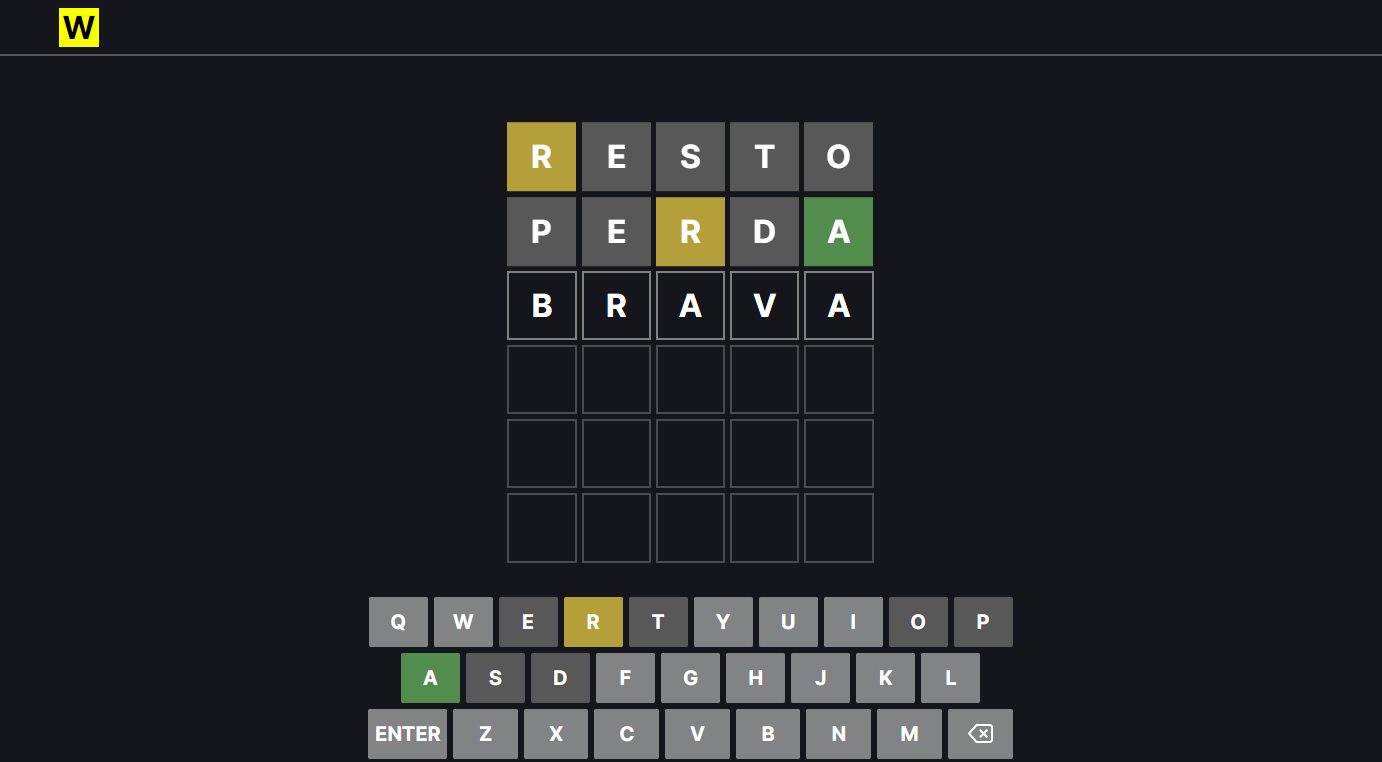
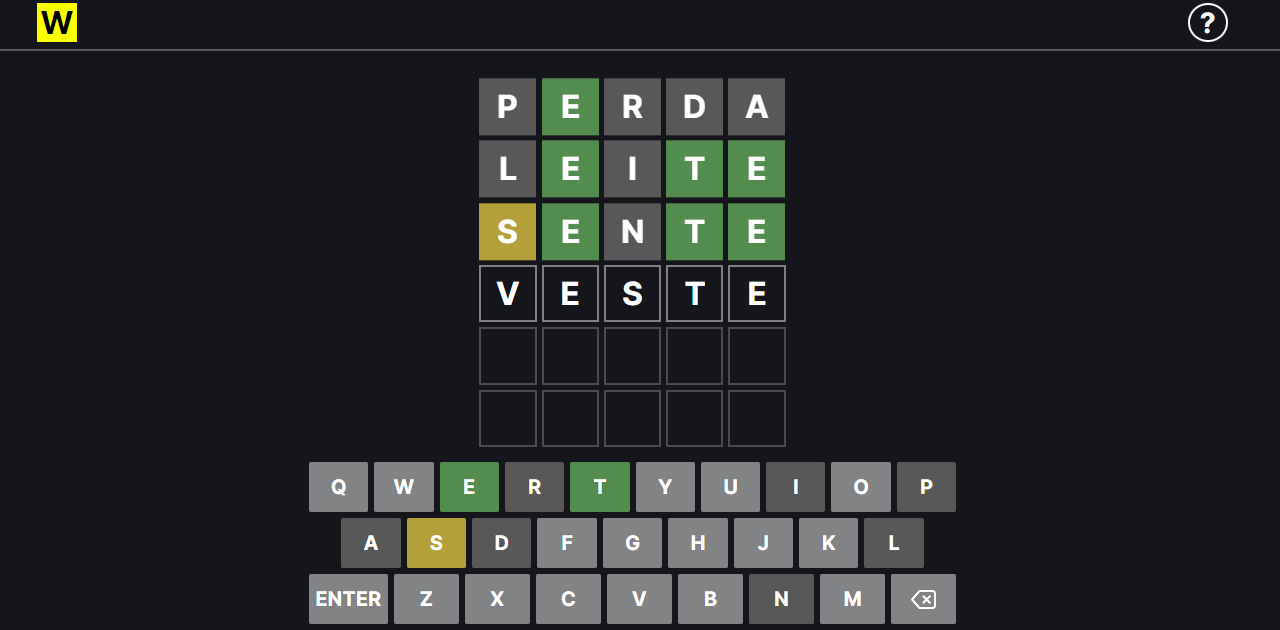
Tutorial ensinando como jogar

Changed region(s): [[0.2188, 0.1206, 0.75, 1.0], [0.0, 0.0, 1.0, 0.0905]]

diff --git a/src/components/Teclado/Teclado.tsx b/src/components/Teclado/Teclado.tsx
@@ -91,7 +91,7 @@ export default function Teclado({palavraSecreta, setPalavras}: {
 }
 
 
-function trataTecla(
+export function trataTecla(
     letra: string, 
     posicao: IPosicao, 
     setPosicao: React.Dispatch<React.SetStateAction<IPosicao>>, 
@@ -175,7 +175,7 @@ function deletaLetra(
 }
 
 
-function confirmaPalavra(
+export function confirmaPalavra(
     posicao: IPosicao, 
     setPosicao: React.Dispatch<React.SetStateAction<IPosicao>>, 
     setPalavras: React.Dispatch<React.SetStateAction<IPalavras>>,
@@ -196,15 +196,21 @@ function confirmaPalavra(
             acentuaPalavraDigitada(posicao.linha, indexPalavraDigitada, setPalavras);
             verificaPalavra(posicao.linha, palavraSecreta, setPalavras, setTeclado);
 
-            if(posicao.linha+1 === 5) return
+            if(posicao.linha+1 === 6) return 3
 
             setPosicao({linha: posicao.linha+1, coluna: 0});
             mostraCampoAtivo(posicao.linha+1, 0, setPalavras);
             palavraDigitada = '';
             
-        } else alertaErro('Palavra não está na lista', posicao);
+        } else {
+            alertaErro('Palavra não está na lista', posicao);
+            return 1;
+        }
     
-    } else alertaErro('Preencha todas as letras', posicao);
+    } else {
+        alertaErro('Preencha todas as letras', posicao);
+        return 2;
+    }
 }
 
 
@@ -261,6 +267,8 @@ async function verificaPalavra(
     setTeclado: React.Dispatch<React.SetStateAction<ITeclado>>
 ) {
 
+    const resetPalavraSecreta = palavraSecreta;
+
     setTeclado((estadoAnterior) => ({...estadoAnterior, habilitado: false}))
 
     let letrasAcertadas = 0;
@@ -284,20 +292,24 @@ async function verificaPalavra(
         return str.split('').map(str => (mapaAcentos as any)[str] || str).join('');
     }
 
+    let j = 0
+
     for(let i = 0; i < 5; i++) {
         document.getElementById(`campo-letra${linha}-${i}`)?.classList.add('verificado');
         await new Promise((r) => setTimeout(r, 400));
 
 
         setPalavras(estadoAnterior => {
+            if(j != i) return estadoAnterior;
+            
             let novoEstado = Object.assign({}, estadoAnterior);
             let campoLetra = novoEstado[`palavra${linha}`][`campoLetra${i}`];
             let letra = removeAcento(campoLetra.letra);
             let letraIndex = removeAcento(palavraSecreta).indexOf(letra);
             let letraSecreta = palavraSecreta[i];
-            let tecla = document.getElementById(removeAcento(letra)) as HTMLButtonElement;
+            let tecla = document.getElementById(letra) as HTMLButtonElement;
     
-            if(letra === removeAcento(letraSecreta) && letraSecreta !== ' ') {
+            if(letra === removeAcento(letraSecreta)) {
 
                 campoLetra.classe = 'verificado acertou';
                 tecla.classList.add('acertou');
@@ -306,7 +318,10 @@ async function verificaPalavra(
     
                 letrasAcertadas++;
     
-            } else if(letraIndex !== -1 && letraSecreta !== ' ') {
+            } else if(
+                letraIndex !== -1 
+                && removeAcento(palavraSecreta[letraIndex]) !== novoEstado[`palavra${linha}`][`campoLetra${letraIndex}`].letra
+                ) {
 
                 if(!campoLetra.classe.includes('acertou')) campoLetra.classe = 'verificado tem-na-palavra';
                 if(!tecla.classList.contains('acertou')) tecla.classList.add('tem-na-palavra');
@@ -323,17 +338,18 @@ async function verificaPalavra(
                 }
     
             }
-    
+            
+            j++;
             return novoEstado;
         });
     }
 
     await new Promise((r) => setTimeout(r, 400));
 
-    setTeclado((estadoAnterior) => ({...estadoAnterior, habilitado: true}))
+    setTeclado((estadoAnterior) => ({...estadoAnterior, habilitado: true}));
 
-    if(letrasAcertadas === 5) terminaJogo(true, palavraSecreta, setTeclado);
-    else if(linha === 5) terminaJogo(false, palavraSecreta, setTeclado);
+    if(letrasAcertadas >= 5) terminaJogo(true, resetPalavraSecreta, setTeclado);
+    else if(linha === 5) terminaJogo(false, resetPalavraSecreta, setTeclado);
 }
 
 
@@ -374,4 +390,6 @@ function terminaJogo(
         });
 
     }
+
+    (document.getElementById('btn-jogar-novamente') as HTMLButtonElement).style.display = 'block';
 }

diff --git a/src/components/Tutorial/Tutorial.tsx b/src/components/Tutorial/Tutorial.tsx
@@ -1,0 +1,48 @@
+import exemploAcerto from '../../assets/img/exemplo-acerto.png';
+import exemploTemNaPalavra from '../../assets/img/exemplo-tem-na-palavra.png';
+import exemplo from '../../assets/img/exemplo.png';
+import XIcone from '../../assets/img/x-icone.png';
+import style from './Tutorial.module.scss';
+
+export default function Tutorial() {
+    return (
+        <section className={style['tutorial-container']} id='tutorial' onClick={(evento) => fecharTutorial(evento)}>
+            <div className={style.tutorial}>
+                
+                <button className={style['btn-fechar']} id='fechar-tutorial' onClick={(evento) => fecharTutorial(evento)}> 
+                    <img src={XIcone} /> 
+                </button>
+
+                <h2>COMO JOGAR</h2>
+
+                <p className={style.resumo}> O jogo consiste em descobrir uma palavra de 5 letras em até 6 tentativas. Cada letra digitada é verificada e, caso a letra esteja presente na palavra e na posição correta, ela é exibida em verde. Caso a letra esteja presente na palavra, porém na posição incorreta, ela é exibida em amarelo. O jogador pode usar essas informações para adivinhar a palavra secreta e ganhar o jogo. </p>
+
+                <figure>
+                    <img src={exemploAcerto} />
+                    <figcaption>Neste caso a letra <b>E</b> está na palavra secreta e na posição correta.</figcaption>
+                </figure>
+
+                <figure>
+                    <img src={exemploTemNaPalavra} />
+                    <figcaption>Neste caso a letra <b>R</b> está na palavra secreta, mas em outra posição.</figcaption>
+                </figure>
+
+                <figure>
+                    <img src={exemplo} />
+                    <figcaption>Ou seja, neste exemplo, a letra <b>E</b> está na palavra secreta e na posição correta, as letras <b>R</b> e <b>T</b> estão na palavra, mas em outra posição e a palavra secreta não possui as letras <b>S</b> e <b>A</b></figcaption>
+                </figure>      
+
+            </div>
+        </section>
+    )
+}
+
+
+export function fecharTutorial(evento: React.MouseEvent<HTMLElement, MouseEvent>) {
+    const tutorialContainer = document.getElementById('tutorial') as HTMLElement;
+    const btnFechar = document.getElementById('fechar-tutorial') as HTMLButtonElement;
+
+    const camposPermitidos = [tutorialContainer, btnFechar, btnFechar.firstElementChild] as EventTarget[];
+
+    if(camposPermitidos.includes(evento.target)) tutorialContainer.style.display = 'none';
+}

diff --git a/src/pages/App.tsx b/src/pages/App.tsx
@@ -1,8 +1,10 @@
 import Cabecalho from '../components/Cabecalho/Cabecalho';
+import JogarNovamente from '../components/JogarNovamente/JogarNovamente';
 import listaPalavras from '../banco-de-palavras/lista-palavras.json';
 import Palavra from '../components/Palavra/Palavra';
 import style from './App.module.scss';
 import Teclado from '../components/Teclado/Teclado';
+import Tutorial, { fecharTutorial } from '../components/Tutorial/Tutorial';
 import { IPalavras, IPalavra } from '../types/palavras';
 import { ToastContainer, Zoom } from 'react-toastify';
 import { useState } from 'react';
@@ -15,7 +17,9 @@ export default function App() {
   const [palavras, setPalavras] = useState(criaStatePalavra());
 
   return (
-    <div className={style.app}>
+    <div className={style.app} >
+
+      <Tutorial />
 
       <Cabecalho />
 
@@ -26,7 +30,8 @@ export default function App() {
         draggable={false}
         pauseOnFocusLoss={false}
         theme='colored'
-        transition={Zoom} />
+        transition={Zoom}
+        role='alert' />
 
       <section className={style.palavras}>
 
@@ -39,6 +44,8 @@ export default function App() {
       </section>
 
       <Teclado palavraSecreta={palavraSecreta} setPalavras={setPalavras} />
+
+      <JogarNovamente />
 
     </div>
   );

diff --git a/src/components/Tutorial/Tutorial.module.scss b/src/components/Tutorial/Tutorial.module.scss
@@ -1,0 +1,50 @@
+.tutorial-container {
+    position: absolute;
+    width: 100vw;
+    height: 100vh;
+    z-index: 1;
+    background: rgba(20, 22, 28, .5);
+    font-family: var(--fonte-principal);
+    font-weight: 300;
+    color: white;
+
+    .tutorial {
+        background: rgba(20, 22, 28, 1);
+        max-width: 768px;
+        height: 100%;
+        overflow-y: scroll;
+        display: flex;
+        flex-flow: column;
+        padding: 20px 25px;
+        gap: 20px;
+        margin: auto;
+
+        .btn-fechar {
+            margin-left: 90%;
+            background-color: transparent;
+            border-width: 0;
+            width: fit-content;
+            transition: transform 0.5s;
+            cursor: pointer;
+    
+            img {
+                width: 20px;
+            }
+
+            &:hover {
+                transform: rotate(90deg);
+            }
+        }
+    
+        .resumo {
+            font-size: 24px;
+        }
+    
+        figure {
+            img {
+                width: 80vw;
+                max-width: 380px;
+            }
+        }
+    }
+}

diff --git a/src/components/Cabecalho/Cabecalho.module.scss b/src/components/Cabecalho/Cabecalho.module.scss
@@ -1,6 +1,9 @@
 $tamanho-logo: 20px;
+$amarelo: #F9FF00;
 
 .cabecalho {
+    display: flex;
+    justify-content: space-between;
     position: relative;
     width: 100vw;
     padding: 1vh 5%;
@@ -10,8 +13,26 @@ $tamanho-logo: 20px;
         font-family: var(--fonte-principal);
         font-size: 24px;
         font-weight: 700;
-        background-color: #F9FF00;
+        background-color: $amarelo;
+        height: fit-content;
         padding: 0 3px;
+    }
+
+    .btn-tutorial {
+        font-family: var(--fonte-principal);
+        font-weight: 700;
+        font-size: 28px;
+        color: white;
+        width: 40px;
+        border-radius: 50%;
+        background-color: transparent;
+        border: 2px solid white;
+        cursor: pointer;
+
+        &:hover {
+            border-color: $amarelo;
+            color: $amarelo;
+        }
     }
 }
 

diff --git a/src/components/JogarNovamente/JogarNovamente.module.scss b/src/components/JogarNovamente/JogarNovamente.module.scss
@@ -1,0 +1,20 @@
+$cor-btn: #F9FF00;
+
+.btn-jogar-novamente {
+    display: none;
+    font-family: var(--fonte-principal);
+    font-size: 16px;
+    font-weight: 700;
+    border-radius: 10px;
+    padding: 15px 21px;
+    border: 2px solid $cor-btn;
+    background-color: $cor-btn;
+    position: absolute;
+    bottom: 10vh;
+    cursor: pointer;
+
+    &:hover {
+        background-color: var(--cor-de-fundo);
+        color: $cor-btn;
+    }
+}

diff --git a/src/components/Cabecalho/Cabecalho.tsx b/src/components/Cabecalho/Cabecalho.tsx
@@ -5,6 +5,15 @@ export default function Cabecalho() {
     return (
         <header className={style.cabecalho}>
             <span className={style.logo}>W</span>
+
+            <button className={style['btn-tutorial']} onClick={() => abrirTutorial()}>
+                ?
+            </button>
         </header>
     )
+}
+
+
+function abrirTutorial() {
+    (document.getElementById('tutorial') as HTMLElement).style.display = 'block';
 }

diff --git a/src/components/JogarNovamente/JogarNovamente.tsx b/src/components/JogarNovamente/JogarNovamente.tsx
@@ -1,0 +1,19 @@
+import style from './JogarNovamente.module.scss';
+
+export default function JogarNovamente() {
+    return (
+        <button 
+        className={style['btn-jogar-novamente']} 
+        id='btn-jogar-novamente'
+        onClick={() => {reiniciarJogo()}}>
+
+            Jogar Novamente
+            
+        </button>
+    )
+}
+
+
+function reiniciarJogo() {
+    window.location.reload();
+}

diff --git a/src/index.css b/src/index.css
@@ -1,4 +1,4 @@
-@import url('https://fonts.googleapis.com/css2?family=Inter:wght@700&display=swap');
+@import url('https://fonts.googleapis.com/css2?family=Inter:wght@300;700&display=swap');
 
 :root {
     --fonte-principal: 'Inter', sans-serif;
